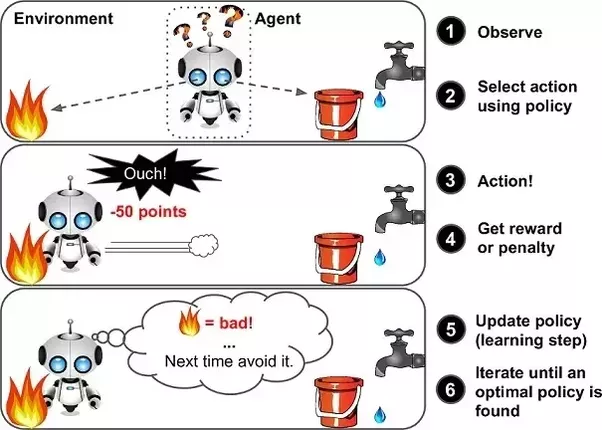
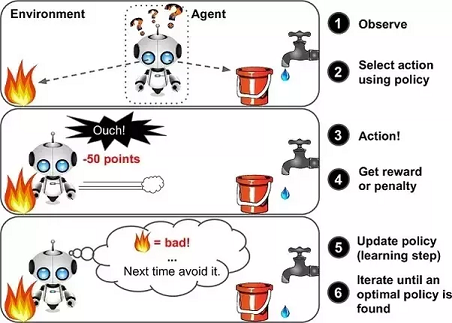
Neated up the reward tab

diff --git a/screenreward.cpp b/screenreward.cpp
@@ -2,31 +2,28 @@
 
 screenReward::screenReward(QWidget *parent) : QWidget(parent)
 {
-    layout = new QGridLayout(this);
+    layout = new QVBoxLayout(this);
     headerText = new QLabel(this);
-    firstSentence = new QLabel(this);
     markovText = new QLabel(this);
     rewardText = new QLabel(this);
 
     font.setBold(true);
     font.setStyleHint(QFont::Helvetica);
-    font.setPixelSize(80);
+    font.setPixelSize(70);
 
     headerText->setFont(font);
-    headerText->setText("Reinforcement Learning");
+    headerText->setText("Rewarding the AI");
     headerText->resize(1000, 100);
     headerText->setStyleSheet("QLabel { background-color : black; color : grey; border-color: white; border-style: outset; border-width: 2px; border-color: beige}");
 
     font.setBold(false);
-    font.setPixelSize(15);
-    firstSentence->setFont(font);
-    firstSentence->setText("Reinforcement learning is a subsection of machine learning that \n"
-                            "focuses on using a system of rewards to get the AI to learn.");
+    font.setPixelSize(20);
+
 
     markovText->setFont(font);
     markovText->setText("Reinforcement learning uses something called the Markov Decision Process.\n"
                         "The Markov Decision Process is where you have a series of states that the \n"
-                        "Environment and the agent are in, all of the availabe actions that can be taken, \n"
+                        "Environment and the agent are in, all of the available actions that can be taken, \n"
                         "and you have a function called the model that computes the probability of ending\n"
                         "at a select state. Then a reward is given once the agent has taken an action.");
 
@@ -35,29 +32,43 @@ screenReward::screenReward(QWidget *parent) : QWidget(parent)
                         "about it is getting the agent to look at long term rewards to best optimize its \n"
                         "solution");
 
-
+    diagram = new QPushButton;
     QPixmap pixReward("../cs3505-f17-a8-edu-app-matwilso/diagrams/reward.png");
-    rewardImage = new QLabel(this);
-    rewardImage->setPixmap(pixReward);
-    rewardImage->setScaledContents(true);
-    QPixmap pixMarkov("../cs3505-f17-a8-edu-app-matwilso/diagrams/markov.png");
-    markovImage = new QLabel(this);
-    markovImage->setPixmap(pixMarkov);
-    markovImage->setScaledContents(true);
+    QIcon buttonIcon(pixReward);
+    diagram->setIcon(buttonIcon);
+        diagram->setIconSize(pixReward.rect().size());
+    flag = 0;
 
-    layout->addWidget(headerText,0,0,1,0, Qt::AlignHCenter);
-    layout->addWidget(firstSentence, 1, 0, Qt::AlignLeft);
-    layout->addWidget(markovText, 2, 0, Qt::AlignLeft);
-    layout->addWidget(rewardText, 3,0, Qt::AlignLeft);
-    layout->addWidget(rewardImage,3,1, Qt::AlignRight);
-    layout->addWidget(markovImage, 2,1, Qt::AlignLeft);
 
+    layout->addWidget(headerText);
+    layout->addWidget(markovText);
+    layout->addWidget(diagram);
+    layout->addWidget(rewardText);
+    setLayout(layout);
+
+
+    connect(diagram, SIGNAL(clicked(bool)), this, SLOT(change(bool)));
 }
 
+void screenReward::change(bool) {
+    if(flag == 0) {
+        QPixmap pixDiagram2("../cs3505-f17-a8-edu-app-matwilso/diagrams/markov.png");
+        QIcon ButtonIcon2(pixDiagram2);
+        diagram->setIcon(ButtonIcon2);
+        diagram->setIconSize(pixDiagram2.rect().size());
+        flag = 1;
+    }
+    else {
+        QPixmap pixDiagram1("../cs3505-f17-a8-edu-app-matwilso/diagrams/reward.png");
+        QIcon ButtonIcon1(pixDiagram1);
+        diagram->setIcon(ButtonIcon1);
+        diagram->setIconSize(pixDiagram1.rect().size());
+        flag = 0;
+    }
+}
 
 screenReward::~screenReward(){
     delete headerText;
-    delete firstSentence;
     delete markovText;
     delete rewardImage;
     delete markovImage;

diff --git a/screenintro.cpp b/screenintro.cpp
@@ -24,7 +24,7 @@ screenIntro::screenIntro(QWidget *parent) : QWidget(parent)
     text+= "This data can then be used to make a model, which can then make highly accurate predictions\n";
     text+= "Machine learning is a rapidly expanding field that is employed in a wide variety of computing tasks\n";
     text+= "\nThis guide will go over Reinforcement Learning, a type of Machine Learning commonly used in games\n";
-    text+= "Reinforcement learning is a subsection of machine learning that focses on using a system of rewards to get the AI to learn";
+    text+= "In each of the next tabs, we'll go over a property of Reinforcement learning to see how it affects the model.";
 
 
     info1->setText(text);

diff --git a/screenreward.h b/screenreward.h
@@ -5,6 +5,7 @@
 #include <QWidget>
 #include <QLabel>
 #include <QGridLayout>
+#include <QPushButton>
 
 class screenReward : public QWidget
 {
@@ -17,9 +18,9 @@ public:
 signals:
 
 public slots:
-
+    void change(bool);
 private:
-    QGridLayout *layout;
+    QVBoxLayout *layout;
     QLabel *headerText;
     QLabel *firstSentence;
     QLabel *markovText;
@@ -27,6 +28,8 @@ private:
     QLabel *rewardImage;
     QLabel *markovImage;
     QFont font;
+    QPushButton *diagram;
+    int flag;
 
 
 };
